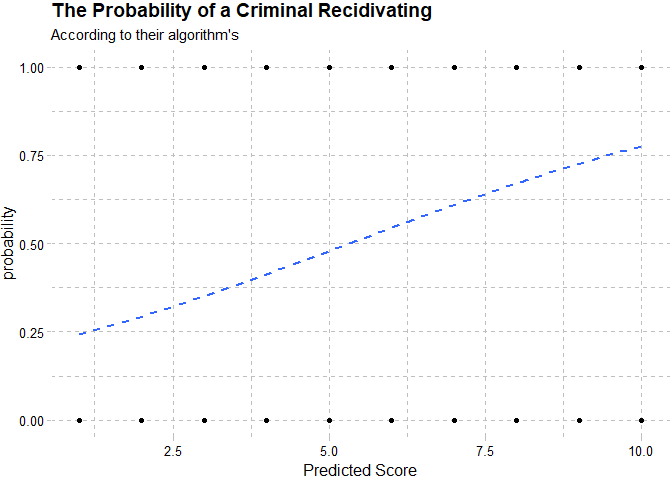
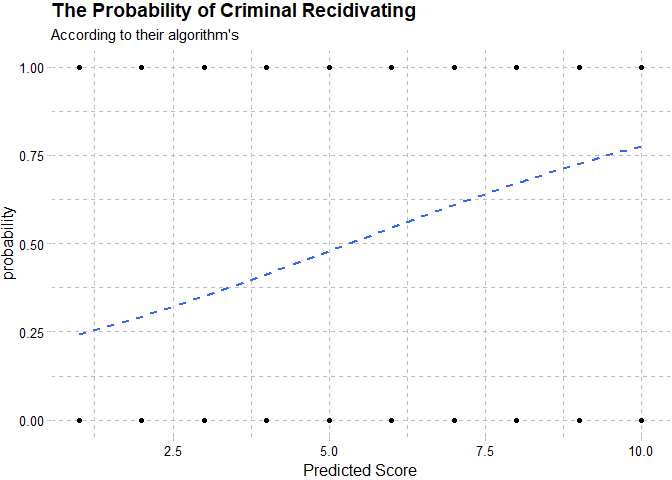
updates

Changed region(s): [[0.3125, 0.0, 0.6562, 0.0625]]

diff --git a/report.html b/report.html
@@ -1673,14 +1673,15 @@ dat_nnn &lt;- read_csv('Song/race2.csv')</code></pre>
 </div>
 <div id="section-2" class="section level4">
 <h4>3</h4>
+<p>The logicitic regression graphs show the probability of criminals recidivating. The frist graph includes all type of races, and the second one shows only African American probaility. We can see that there is no significant change in the regression line between each graph. It leads us to think that the race may not matter a lot statistically.</p>
 <pre class="r"><code>dat_o %&gt;% 
   ggplot() +
   aes(y = as.numeric(dat_o$two_year_recid), x = dat_o$decile_score.1) +
   geom_smooth(method = 'glm', method.args = list(family = 'binomial'), se = F, linetype = 'dashed') +
   geom_point() +
   ggthemes::theme_pander() +
-  labs(title='The Probability of a Criminal Recidivating', subtitle = 'According to their algorithm\'s ', y = 'probability', x = 'Predicted Score')</code></pre>
[1 lines of base64/hex data omitted]
+  labs(title='The Probability of Criminal Recidivating', subtitle = 'According to their algorithm\'s ', y = 'probability', x = 'Predicted Score')</code></pre>
[1 lines of base64/hex data omitted]
 <pre class="r"><code>dat_o %&gt;% 
   filter(race == 'African-American') %&gt;% 
   ggplot() +
@@ -1935,7 +1936,7 @@ fourfoldplot(re$table, color = c('#7fff3f' , '#3fbfff'))</code></pre>
 <div id="conclusions-including-business-takeaways-and-action-items" class="section level1">
 <h1>Conclusions (including business takeaways and action items)</h1>
 <ol style="list-style-type: decimal">
-<li>The Decision Tree We decided not to use the Decision Tree in the Stacking algorithm</li>
+<li>The Decision Tree We decided not to use the Decision Tree in the Stacking algorithm, because it was unforgiving. Unlike other three algorithms, the Decision Tree tried to predict that every target criminal was recidivist. Due to this predicition, the accuracy score was very low compared to other three algorithms.</li>
 <li>Bias<br />
 When we compare the confusion matrix of the our result there is some clues that might suggest African-americans are getting the short end of the stick. A lower specificity indicate that the algorithm is not as forgiving and as good at excluding true negatives from the data. However, it also shows a seneitivity of .77, a better score that the overall one. With a lower F1 measure, our do see a drop of performance in prediction for african-american.</li>
 <li>Score and accuracy<br />

diff --git a/report.md b/report.md
@@ -899,6 +899,7 @@ dat_o %>%
 ![](report_files/figure-html/unnamed-chunk-7-1.png)<!-- -->
 
 #### 3
+The logicitic regression graphs show the probability of criminals recidivating. The frist graph includes all type of races, and the second one shows only African American probaility. We can see that there is no significant change in the regression line between each graph. It leads us to think that the race may not matter a lot statistically.
 
 ```r
 dat_o %>% 
@@ -907,7 +908,7 @@ dat_o %>%
   geom_smooth(method = 'glm', method.args = list(family = 'binomial'), se = F, linetype = 'dashed') +
   geom_point() +
   ggthemes::theme_pander() +
-  labs(title='The Probability of a Criminal Recidivating', subtitle = 'According to their algorithm\'s ', y = 'probability', x = 'Predicted Score')
+  labs(title='The Probability of Criminal Recidivating', subtitle = 'According to their algorithm\'s ', y = 'probability', x = 'Predicted Score')
 ```
 
 ![](report_files/figure-html/unnamed-chunk-8-1.png)<!-- -->
@@ -1096,7 +1097,7 @@ Stacking(w/o race)|0.61|0.58|0.74
     
 # Conclusions (including business takeaways and action items)
 1.    The Decision Tree
-We decided not to use the Decision Tree in the Stacking algorithm
+We decided not to use the Decision Tree in the Stacking algorithm, because it was unforgiving. Unlike other three algorithms, the Decision Tree tried to predict that every target criminal was recidivist. Due to this predicition, the accuracy score was very low compared to other three algorithms. 
 2.    Bias  
 When we compare the confusion matrix  of the our result there is some clues that might suggest African-americans are getting the short end of the stick. A lower specificity indicate that the algorithm is not as forgiving and as good at excluding true negatives from the data. However, it also shows a seneitivity of .77, a better score that the overall one. With a lower F1 measure, our do see a drop of performance in prediction for african-american. 
 3.    Score and accuracy   
